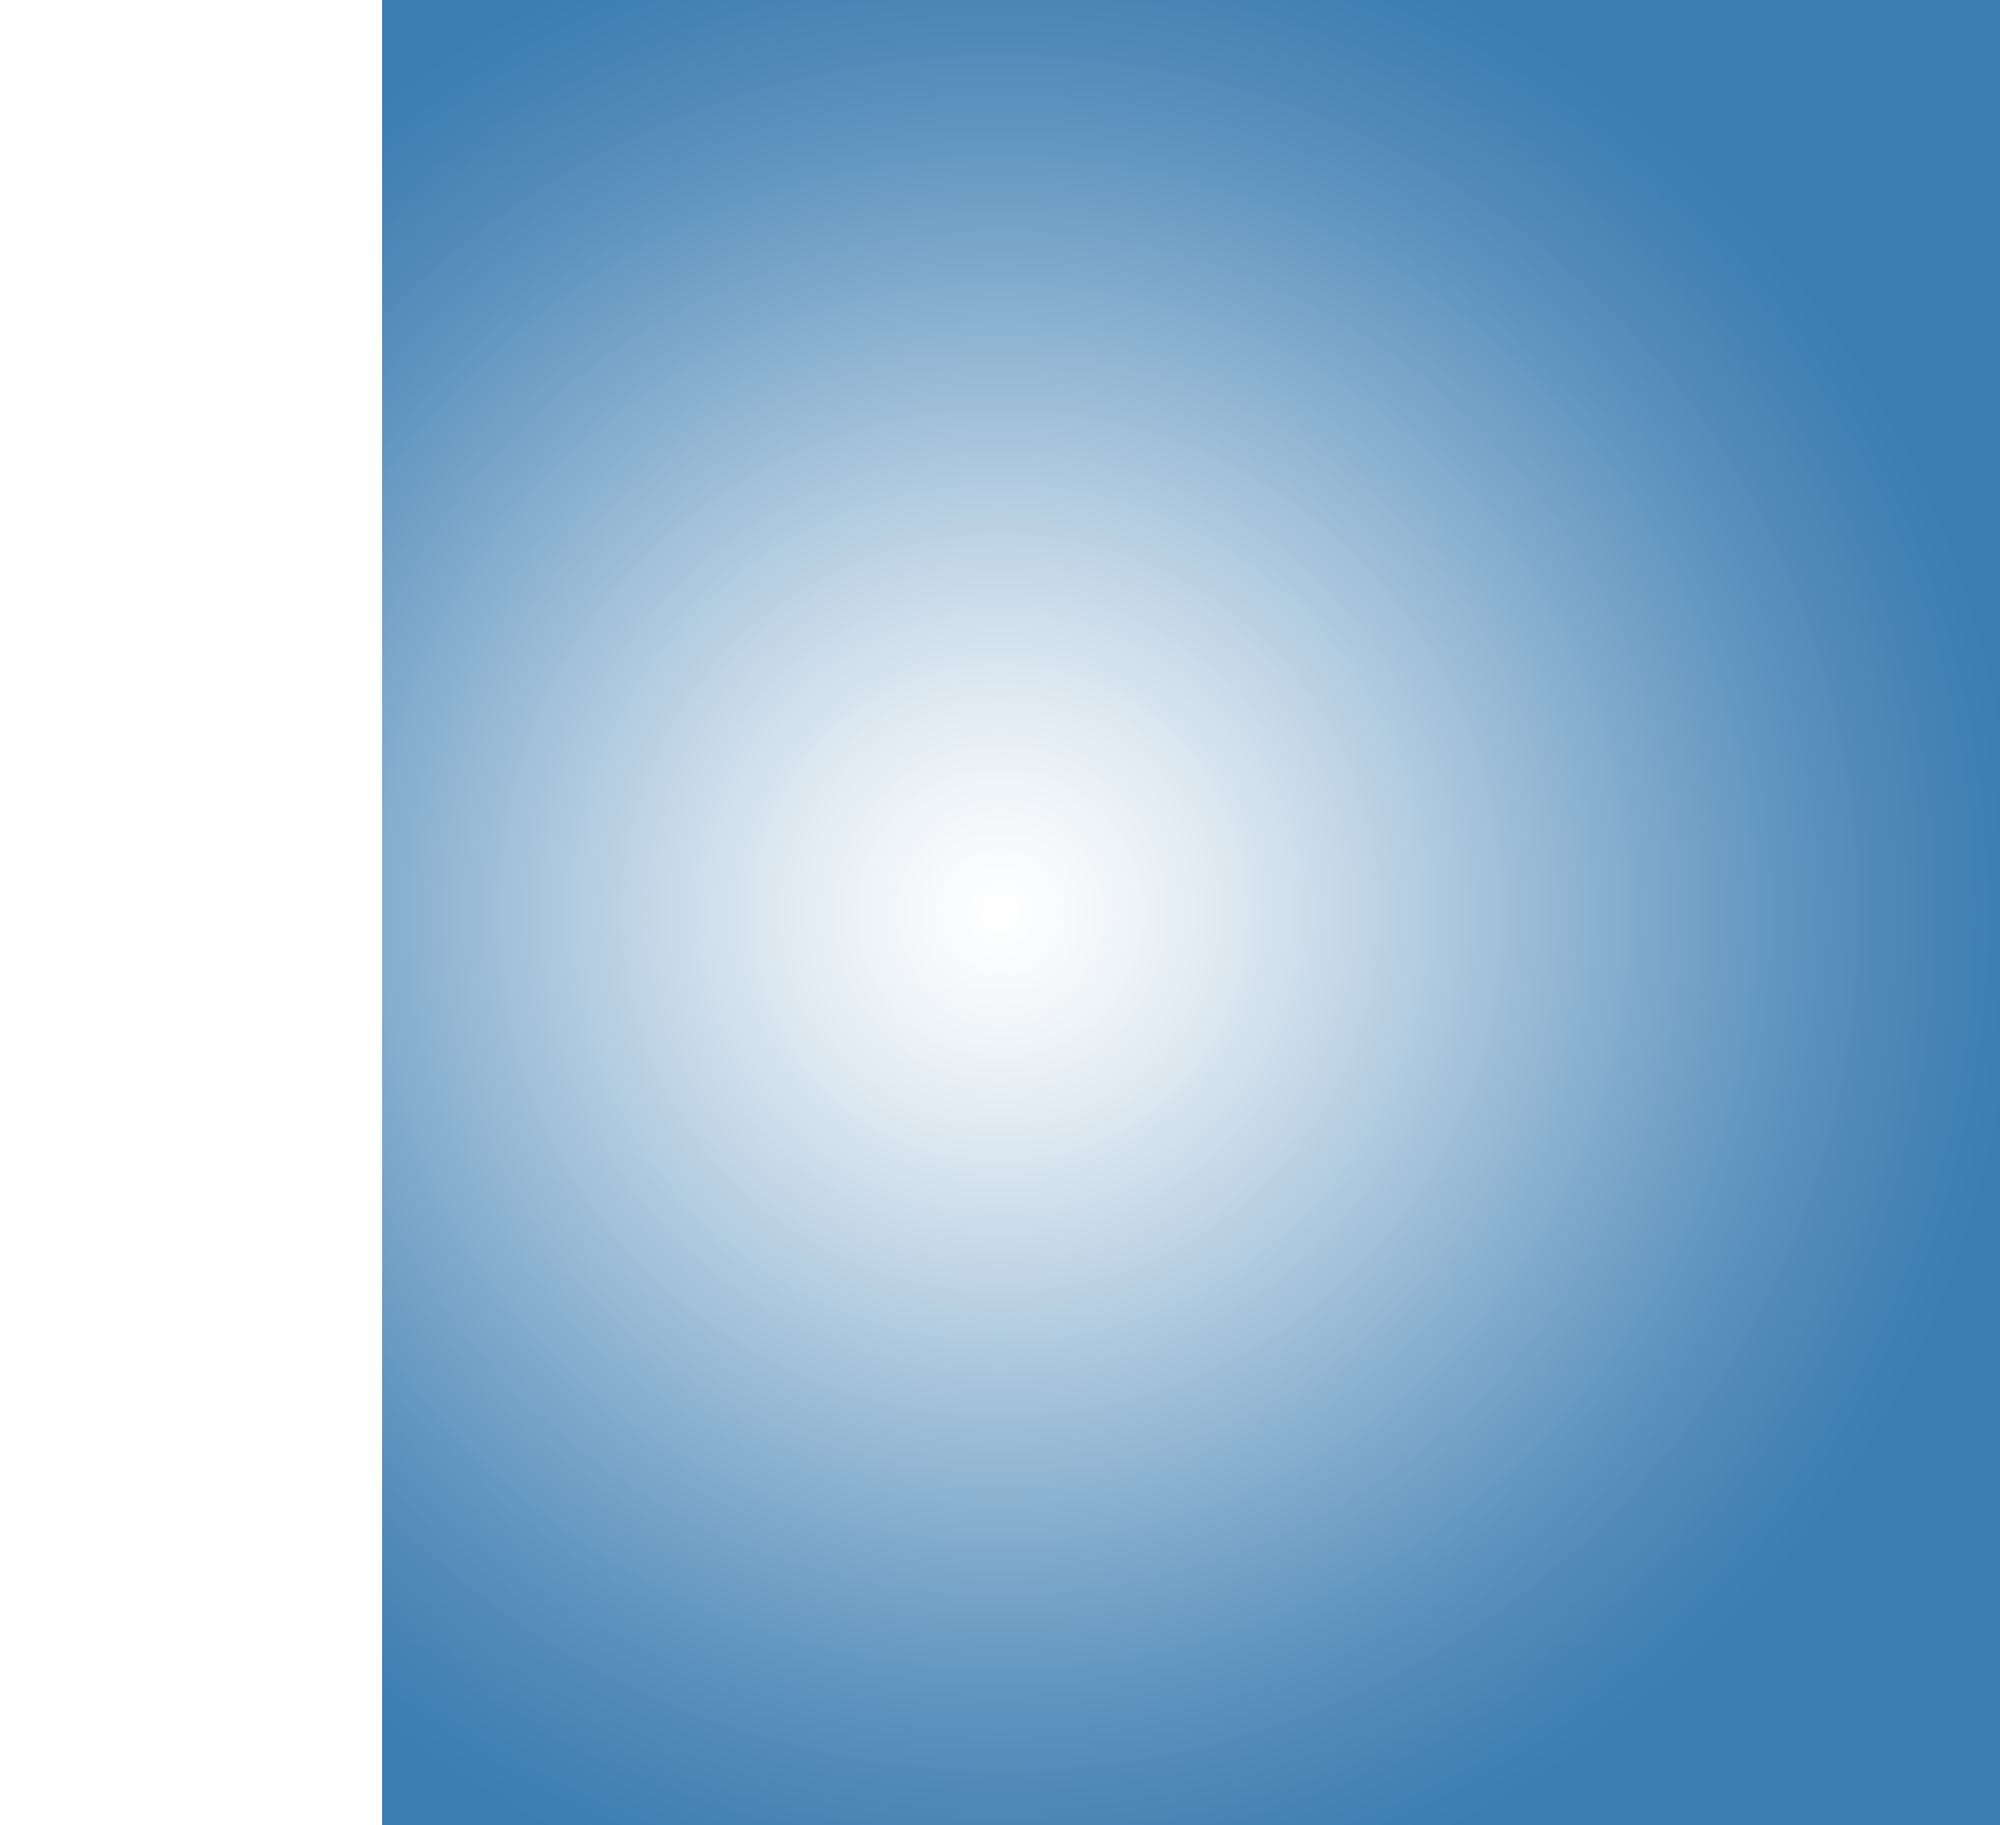
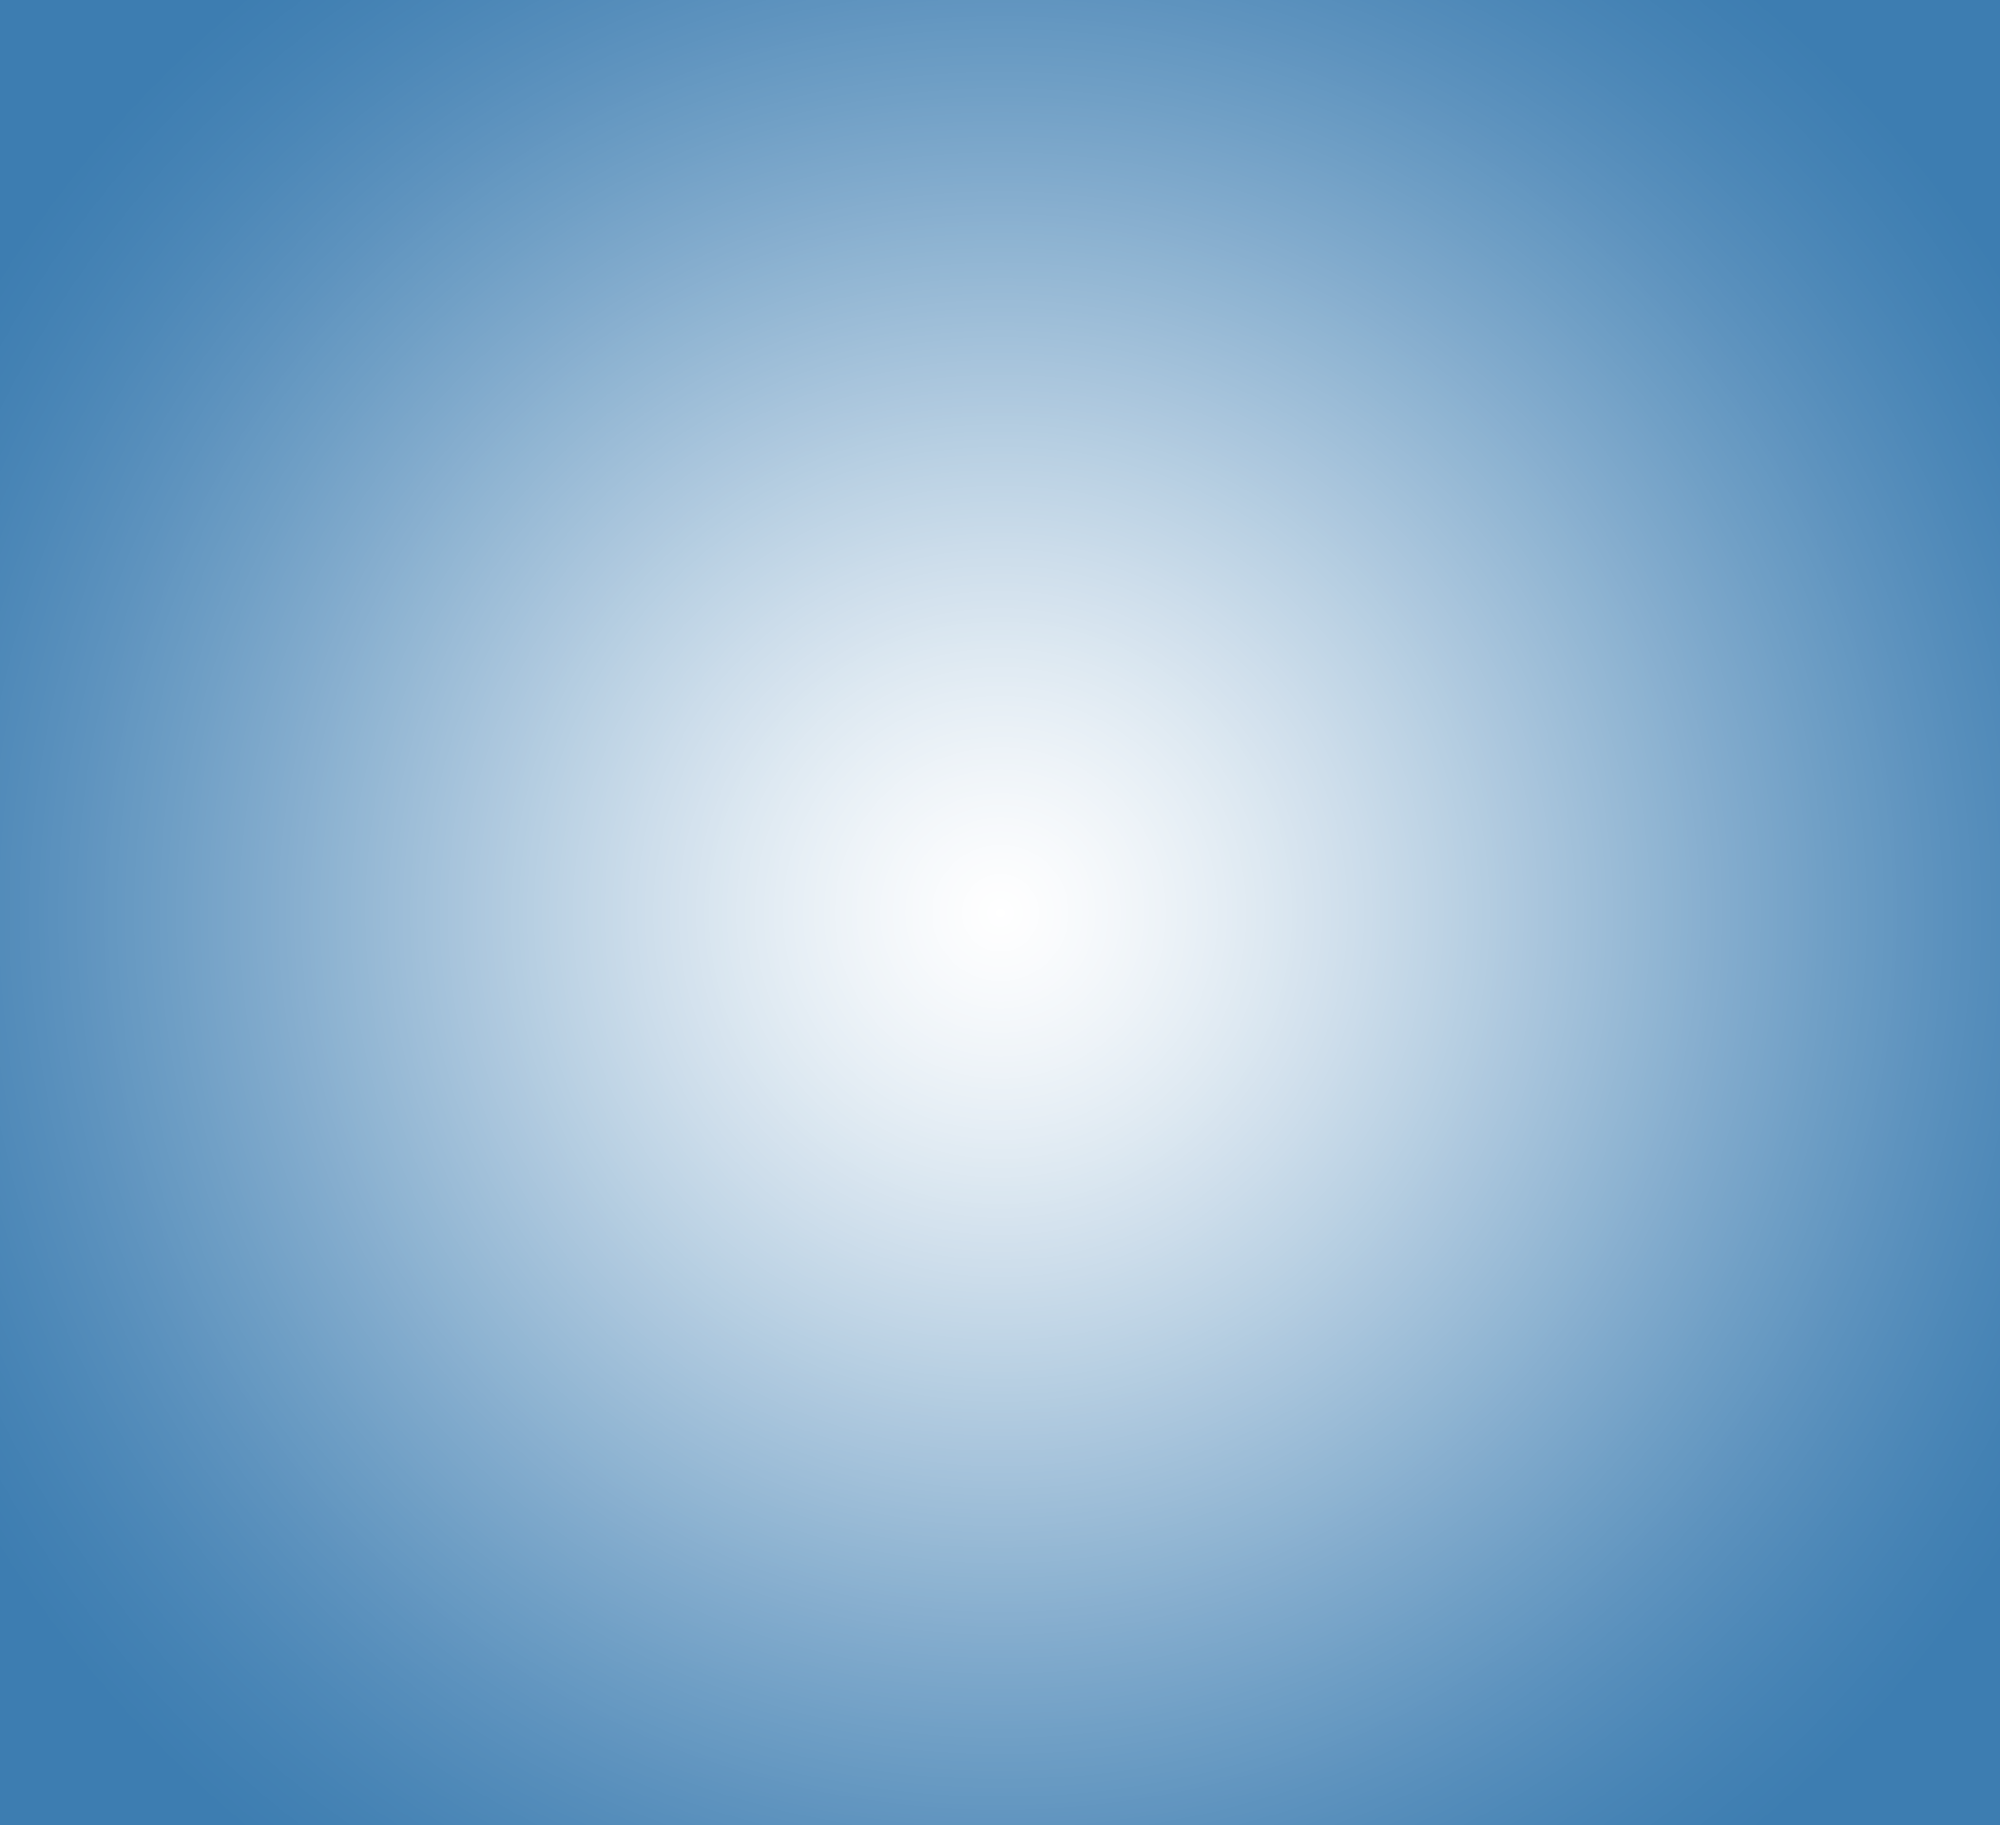
- modify BG to image

Changed region(s): [[0.0, 0.0, 0.2163, 1.0]]

diff --git a/Classes/GamePlayScene.cpp b/Classes/GamePlayScene.cpp
@@ -31,8 +31,8 @@ Scene* GamePlayScene::createScene()
     layer->_bgLayer = BackgroundLayer::create();
     layer->setupForBgLayer();
 	
-    scene->addChild(layer->_bgLayer, z::background);
     scene->addChild(layer, z::scene);
+    scene->addChild(layer->_bgLayer, z::background);
 
 	return scene;
 }
@@ -111,14 +111,16 @@ void GamePlayScene::setPositionLayer()
 
 void GamePlayScene::setupForBgLayer()
 {
-    Vec2 posScore;
-    if(_gridMap->isVertical())
-        posScore = Vec2(40 + _origin.x, _screenSize.height * 0.5f + _origin.y);
-    else
-        posScore = Vec2(_screenSize.width * 0.5f + _origin.x, _screenSize.height - 40 + _origin.y);
-        
-        
-    ManagerLogic::getInstance()->initScore(_bgLayer, posScore, 75.f, Color3B::RED);
+//    Vec2 posScore;
+//    if(_gridMap->isVertical())
+//        posScore = Vec2(40 + _origin.x, _screenSize.height * 0.5f + _origin.y);
+//    else
+//        posScore = Vec2(_screenSize.width * 0.5f + _origin.x, _screenSize.height - 40 + _origin.y);
+//        
+//        
+//    ManagerLogic::getInstance()->initScore(_bgLayer, posScore, 75.f, Color3B::RED);
+    
+    _bgLayer->initSoild(_boardSize);
 }
 
 void GamePlayScene::createStartShape()

diff --git a/Classes/Shape.h b/Classes/Shape.h
@@ -25,9 +25,9 @@ protected:
 public:
 	virtual ~DetailShape(){}
 	float& getMaxAngle() { return _maxAngle; }
-	virtual const int& referToInitCoordBoard(const int& row, const int& col) { return NULL; };
-	virtual const int& referToInitLocationNodeBoard(const int& row, const int& col) { return NULL; };
-	virtual const int& referToRotate(const int& row, const int& col) { return NULL; };
+	virtual const int& referToInitCoordBoard(const int& row, const int& col) { return 0; };
+	virtual const int& referToInitLocationNodeBoard(const int& row, const int& col) { return 0; };
+	virtual const int& referToRotate(const int& row, const int& col) { return 0; };
 };
 
 class OShape : public DetailShape

diff --git a/Classes/BackgroundLayer.cpp b/Classes/BackgroundLayer.cpp
@@ -2,8 +2,17 @@
 
 bool BackgroundLayer::init()
 {
-    if(!LayerColor::initWithColor(Color4B::WHITE))
+    if(!Layer::init())
         return false;
     
     return true;
+}
+
+void BackgroundLayer::initSoild(const Rect& boardRect)
+{
+    Size sc = Director::getInstance()->getVisibleSize();
+    
+    Sprite* bg = Sprite::create(BGPLAY_PATH);
+    bg->setPosition(sc * 0.5f);
+    this->addChild(bg);
 }

diff --git a/Classes/ShapeAction.cpp b/Classes/ShapeAction.cpp
@@ -201,7 +201,6 @@ int Rotate::runAction(shared_ptr<Shape>& shape)
 		newRot = (float)(int(newRot) % 360);
 		int quotient = ceil(newRot / 90.0);
 
-		int numberBlock = (int)shape->_blocks.size();
         list<pos> posList = canRotateInAroudPos(shape, quotient);
 
         //bool bfP = false;   //break find avaible pos to rotate

diff --git a/Classes/Defines.h b/Classes/Defines.h
@@ -6,7 +6,7 @@
 //resoure game
 #define FONT_ARIAL "fonts/arial.ttf"
 #define BLOCK_PATH "title.png"
-#define BG_PATH "bg.jpg"
+#define BGPLAY_PATH "BGPlay.png"
 
 //define game
 #define MAX_COL 11
@@ -15,6 +15,7 @@
 
 enum z
 {
+
     background,
     scene,
     item

diff --git a/Classes/BackgroundLayer.h b/Classes/BackgroundLayer.h
@@ -1,10 +1,11 @@
 #pragma once
 #include "Headers.h"
 
-class BackgroundLayer : public LayerColor
+class BackgroundLayer : public Layer
 {
     bool init() override;
     
 public:
     CREATE_FUNC(BackgroundLayer);
+    void initSoild(const Rect& boardRect);
 };
